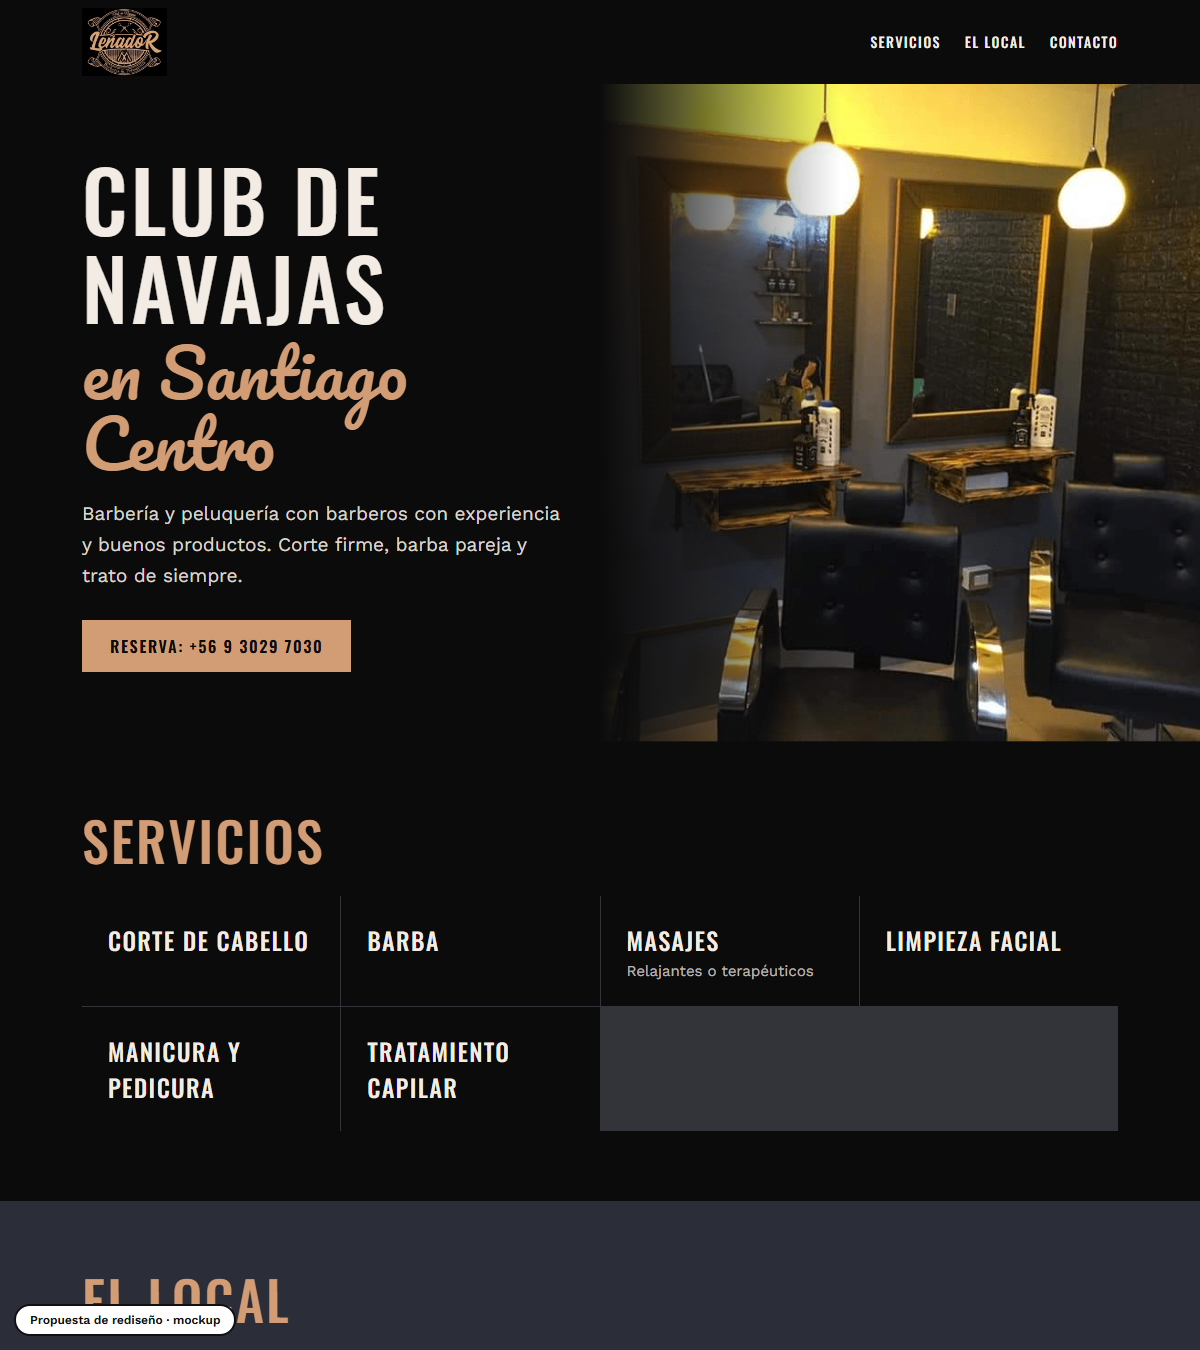
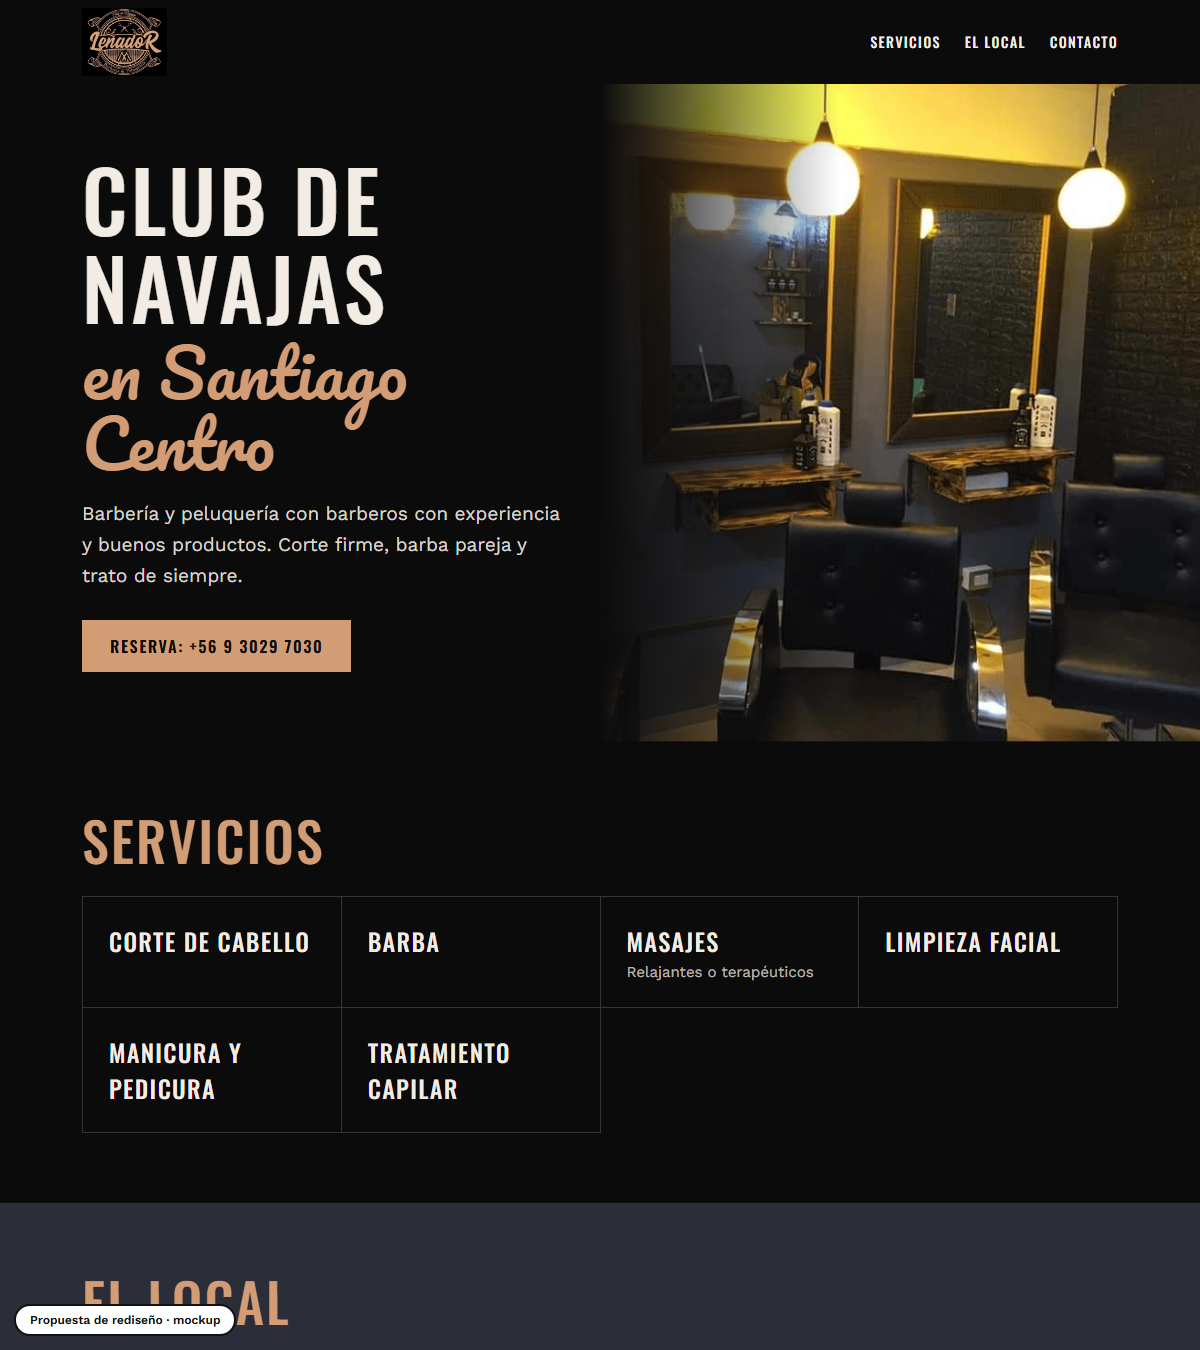
Mockup: barberia-el-lenador-santiago

diff --git a/barberia-el-lenador-santiago/index.html b/barberia-el-lenador-santiago/index.html
@@ -24,8 +24,8 @@ header nav a:hover{color:var(--cu)}
 .hero .i{background:url(assets/local2.png) center/cover;position:relative}
 .hero .i::after{content:"";position:absolute;inset:0;background:linear-gradient(90deg,var(--black),transparent 40%)}
 section{padding:70px 0}h2{font-size:clamp(32px,5vw,54px);margin-bottom:28px;color:var(--cu)}
-.menu{display:grid;grid-template-columns:repeat(auto-fit,minmax(250px,1fr));gap:1px;background:#33343a}
-.menu div{background:var(--black);padding:26px;font:500 24px Oswald;letter-spacing:.06em;text-transform:uppercase;transition:.2s}
+.menu{display:grid;grid-template-columns:repeat(auto-fit,minmax(250px,1fr));border-top:1px solid #33343a;border-left:1px solid #33343a}
+.menu div{border-right:1px solid #33343a;border-bottom:1px solid #33343a;padding:26px;font:500 24px Oswald;letter-spacing:.06em;text-transform:uppercase;transition:.2s}
 .menu div:hover{background:var(--cu);color:var(--black)}
 .menu small{display:block;font:400 15px 'Work Sans';text-transform:none;letter-spacing:0;margin-top:4px;opacity:.75}
 .gal{background:var(--char)}
